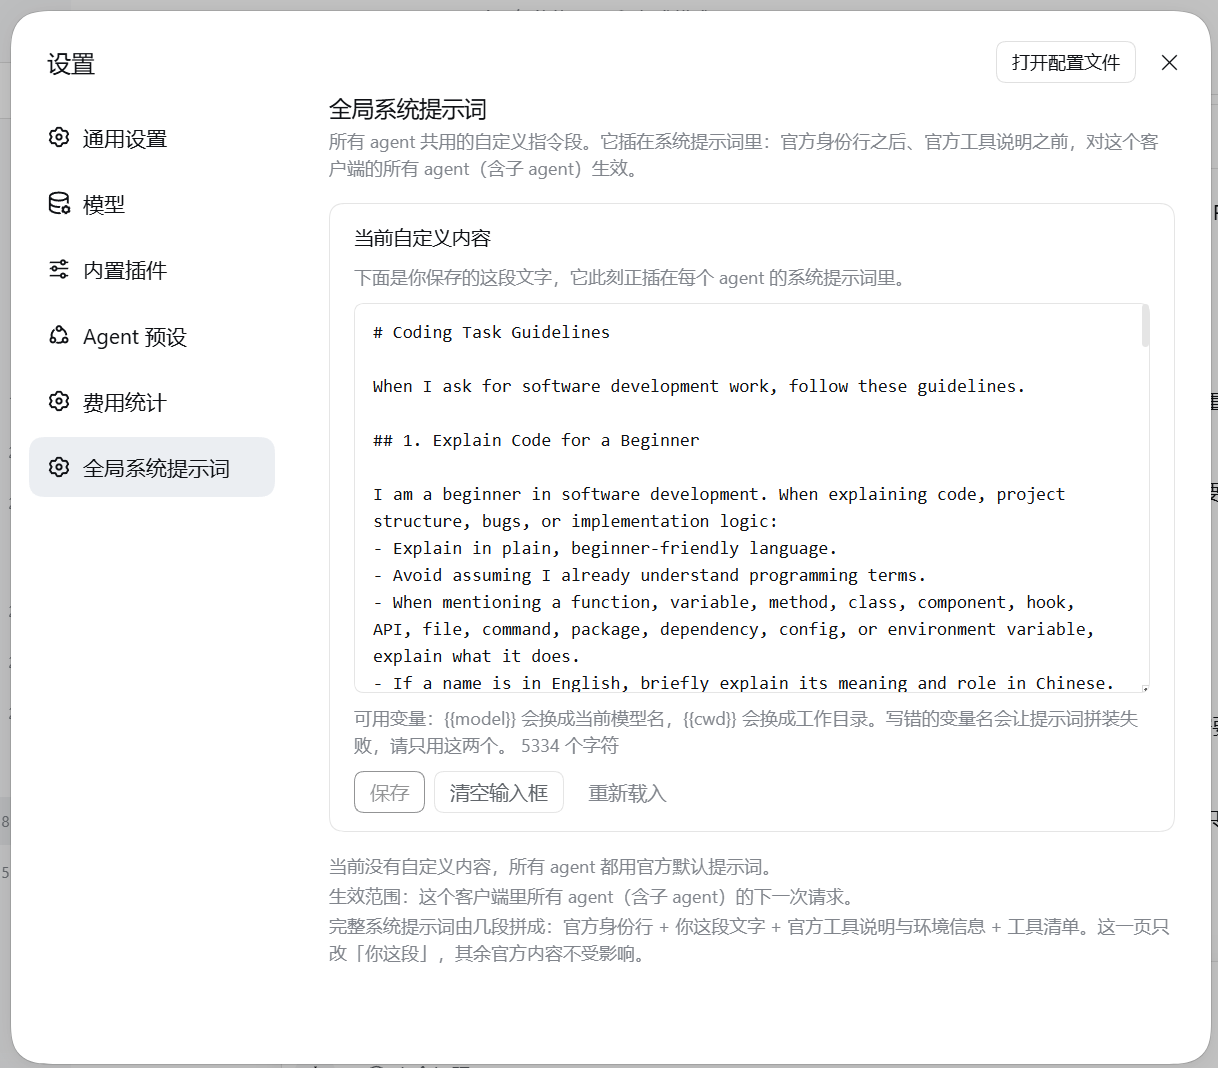
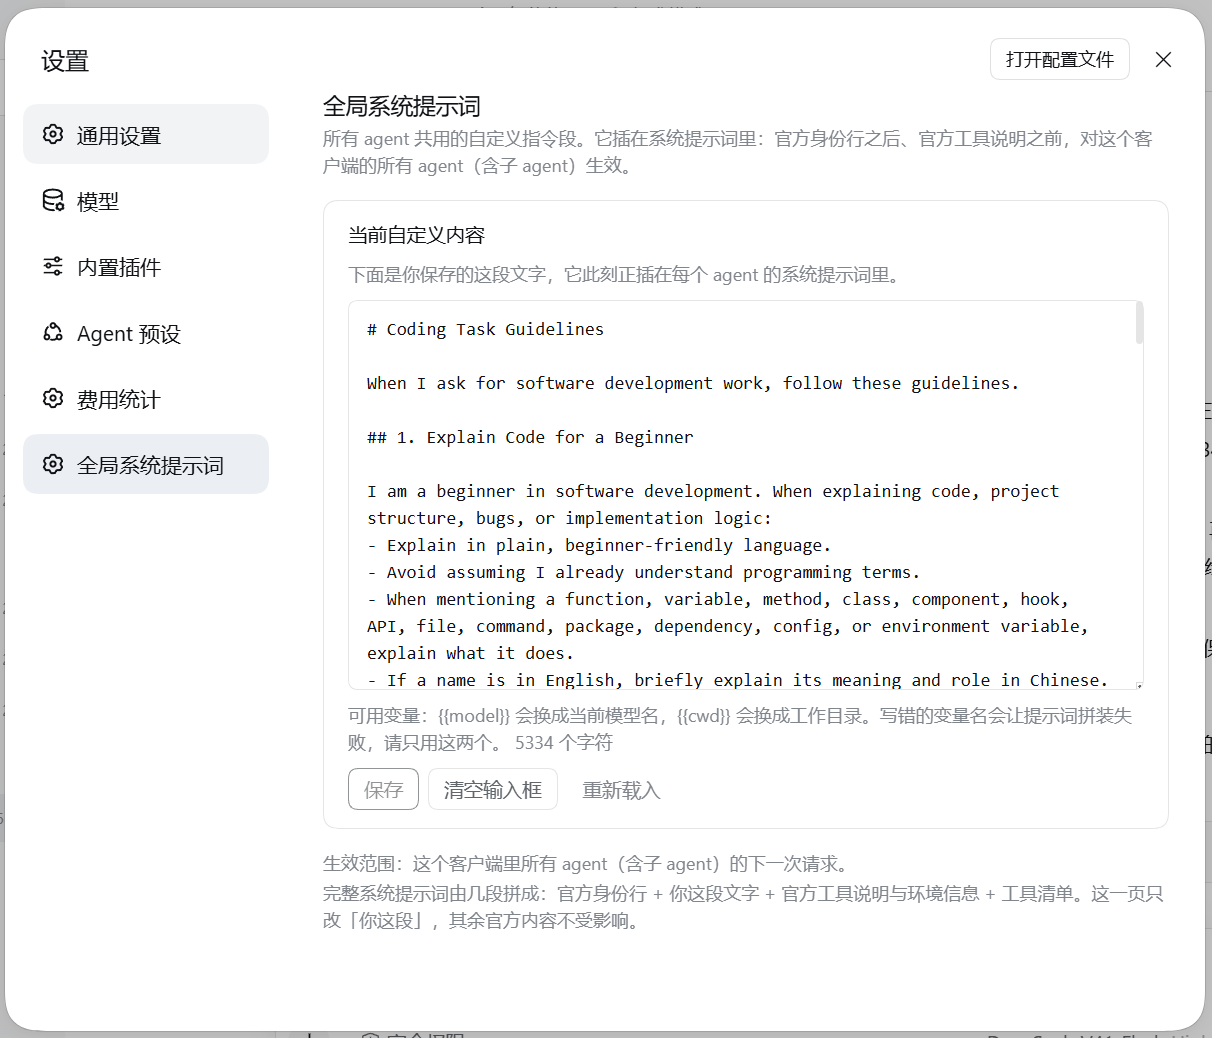
docs: 更换为已修正的界面截图
上一版截图取自「当前是否自定义」那行文案还有 bug 的状态（永远显示"没有自定义"）。
本次换成修复后的界面，并隐去截图中的本机配置文件路径。

diff --git a/README.md b/README.md
@@ -6,6 +6,8 @@
 
 ![全局系统提示词设置页](docs/images/global-system-prompt.png)
 
+*截图取自桌面客户端：页面在「更多设置」里，紧挨「费用统计」下方。页面第一行脚注会显示当前配置来自哪个文件，上图已隐去本机路径。*
+
 ---
 
 ## ❓ 它解决什么问题
